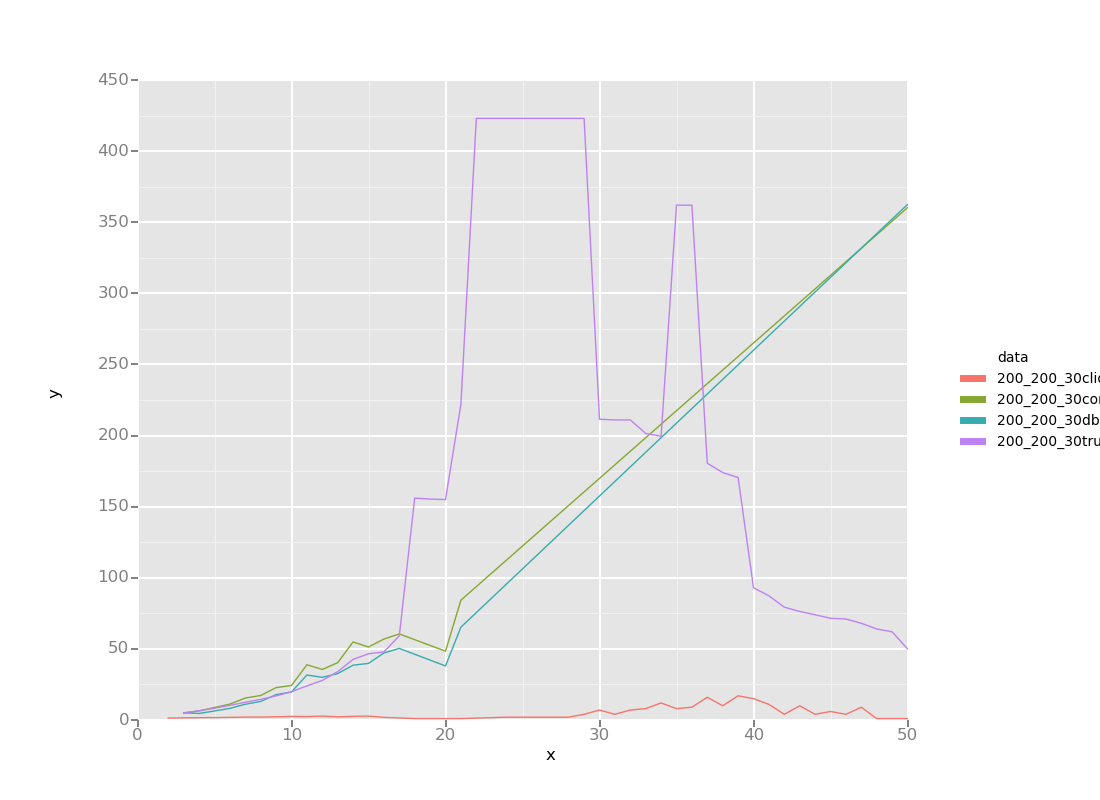
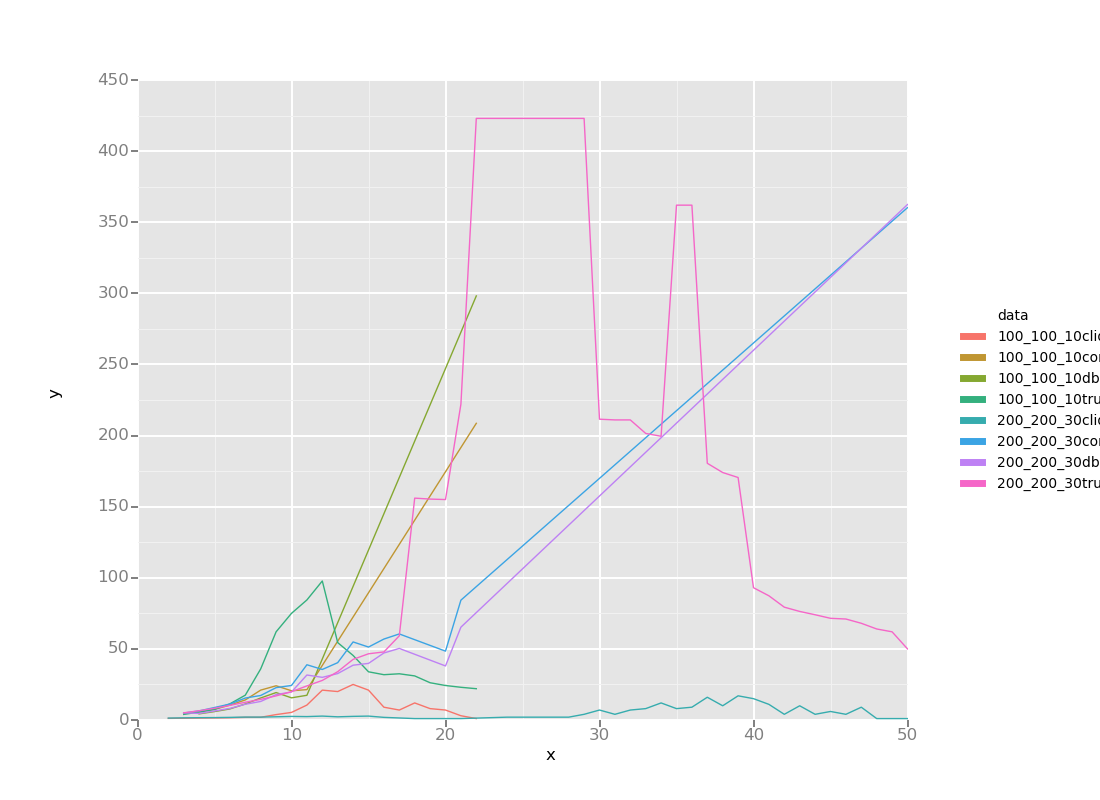
data complete

diff --git a/scripts/data_analysis.py b/scripts/data_analysis.py
@@ -172,13 +172,14 @@ class JsonStatsCollections:
     def gplot(self, ofname, is_freq):
 
         i = 0
+        d = []
         for c in self.coll: 
-            d = []
             if is_freq == False:
                 d = self.transformDataGgPlotSize(c, d)
             elif is_freq == True:
                 d = self.transformDataGgPlotSize(c, d)
-            p = ggplot(aes(x='x', y='y', colour='data'), data = d) + geom_line();
+        f = DataFrame(d)
+        p = ggplot(aes(x='x', y='y', colour='data'), data = f) + geom_line();
         p.save(ofname)
 
 
@@ -203,7 +204,7 @@ class JsonStatsCollections:
         for i in range(0, len(item['x'])):
             trip = {'data': self.coll[c].name+'dbscan', 'x': item['x'][i], 'y' : item['y'][i]}
             ret.append(trip)
-        return DataFrame(ret)
+        return ret
 
     def transformDataGgPlot(self, c, ret):
         item = self.coll[c].truss
@@ -225,7 +226,7 @@ class JsonStatsCollections:
         for i in range(0, len(item['x'])):
             trip = {'data': self.coll[c].name+'dbscan', 'x': item['x'][i], 'y' : item['y'][i]}
             ret.append(trip)
-        return DataFrame(ret)
+        return ret
         
 
 def main(argv):
